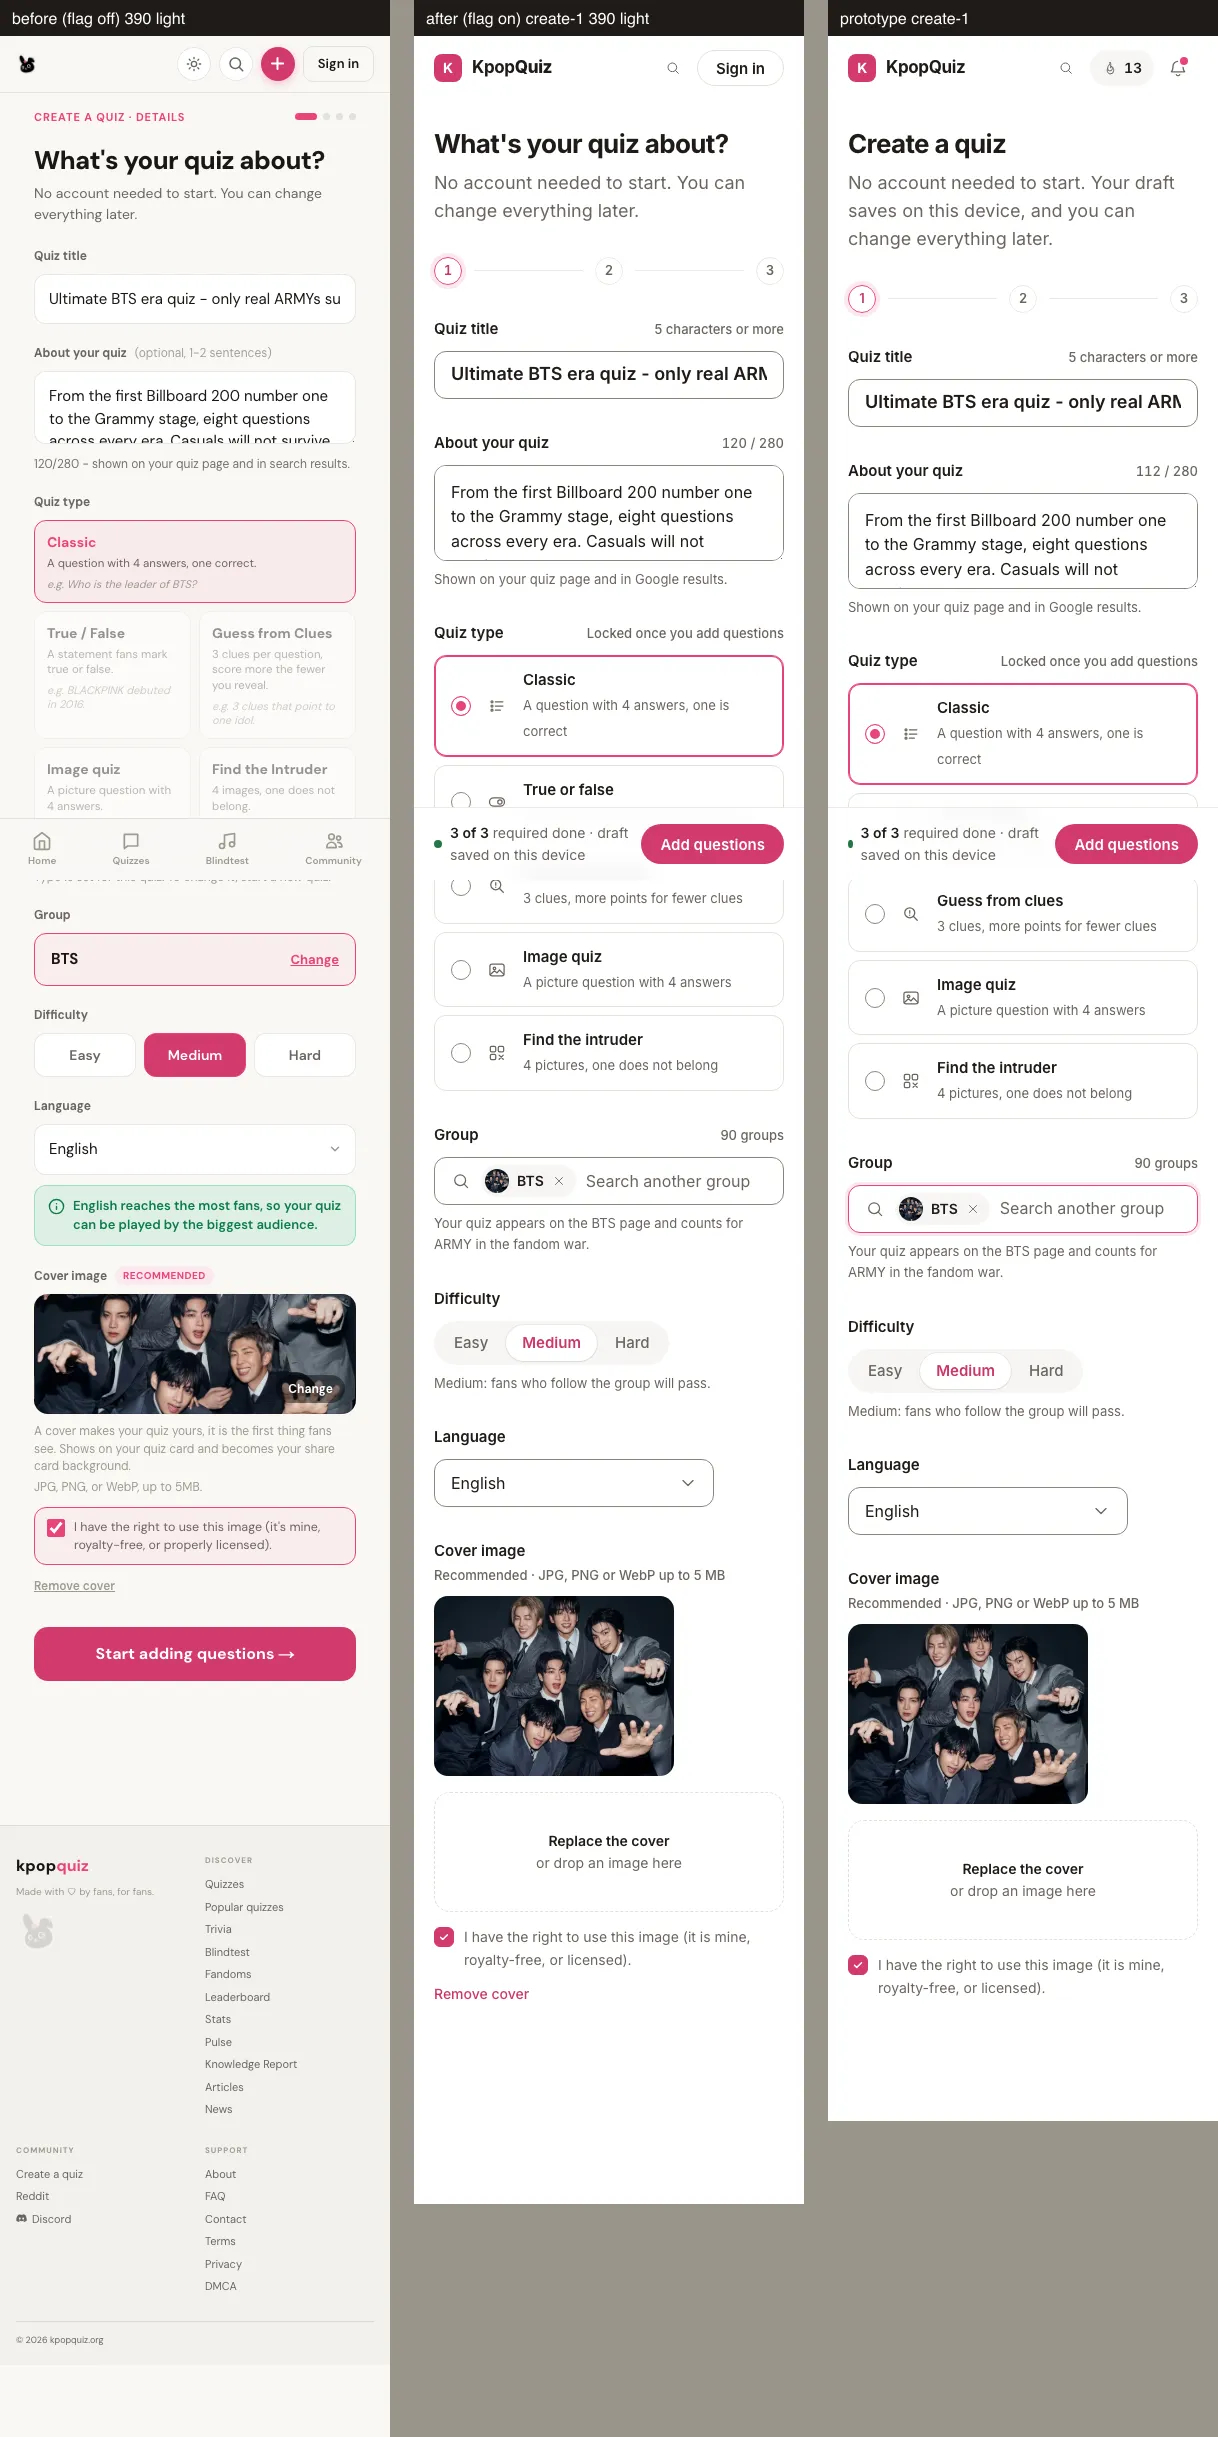
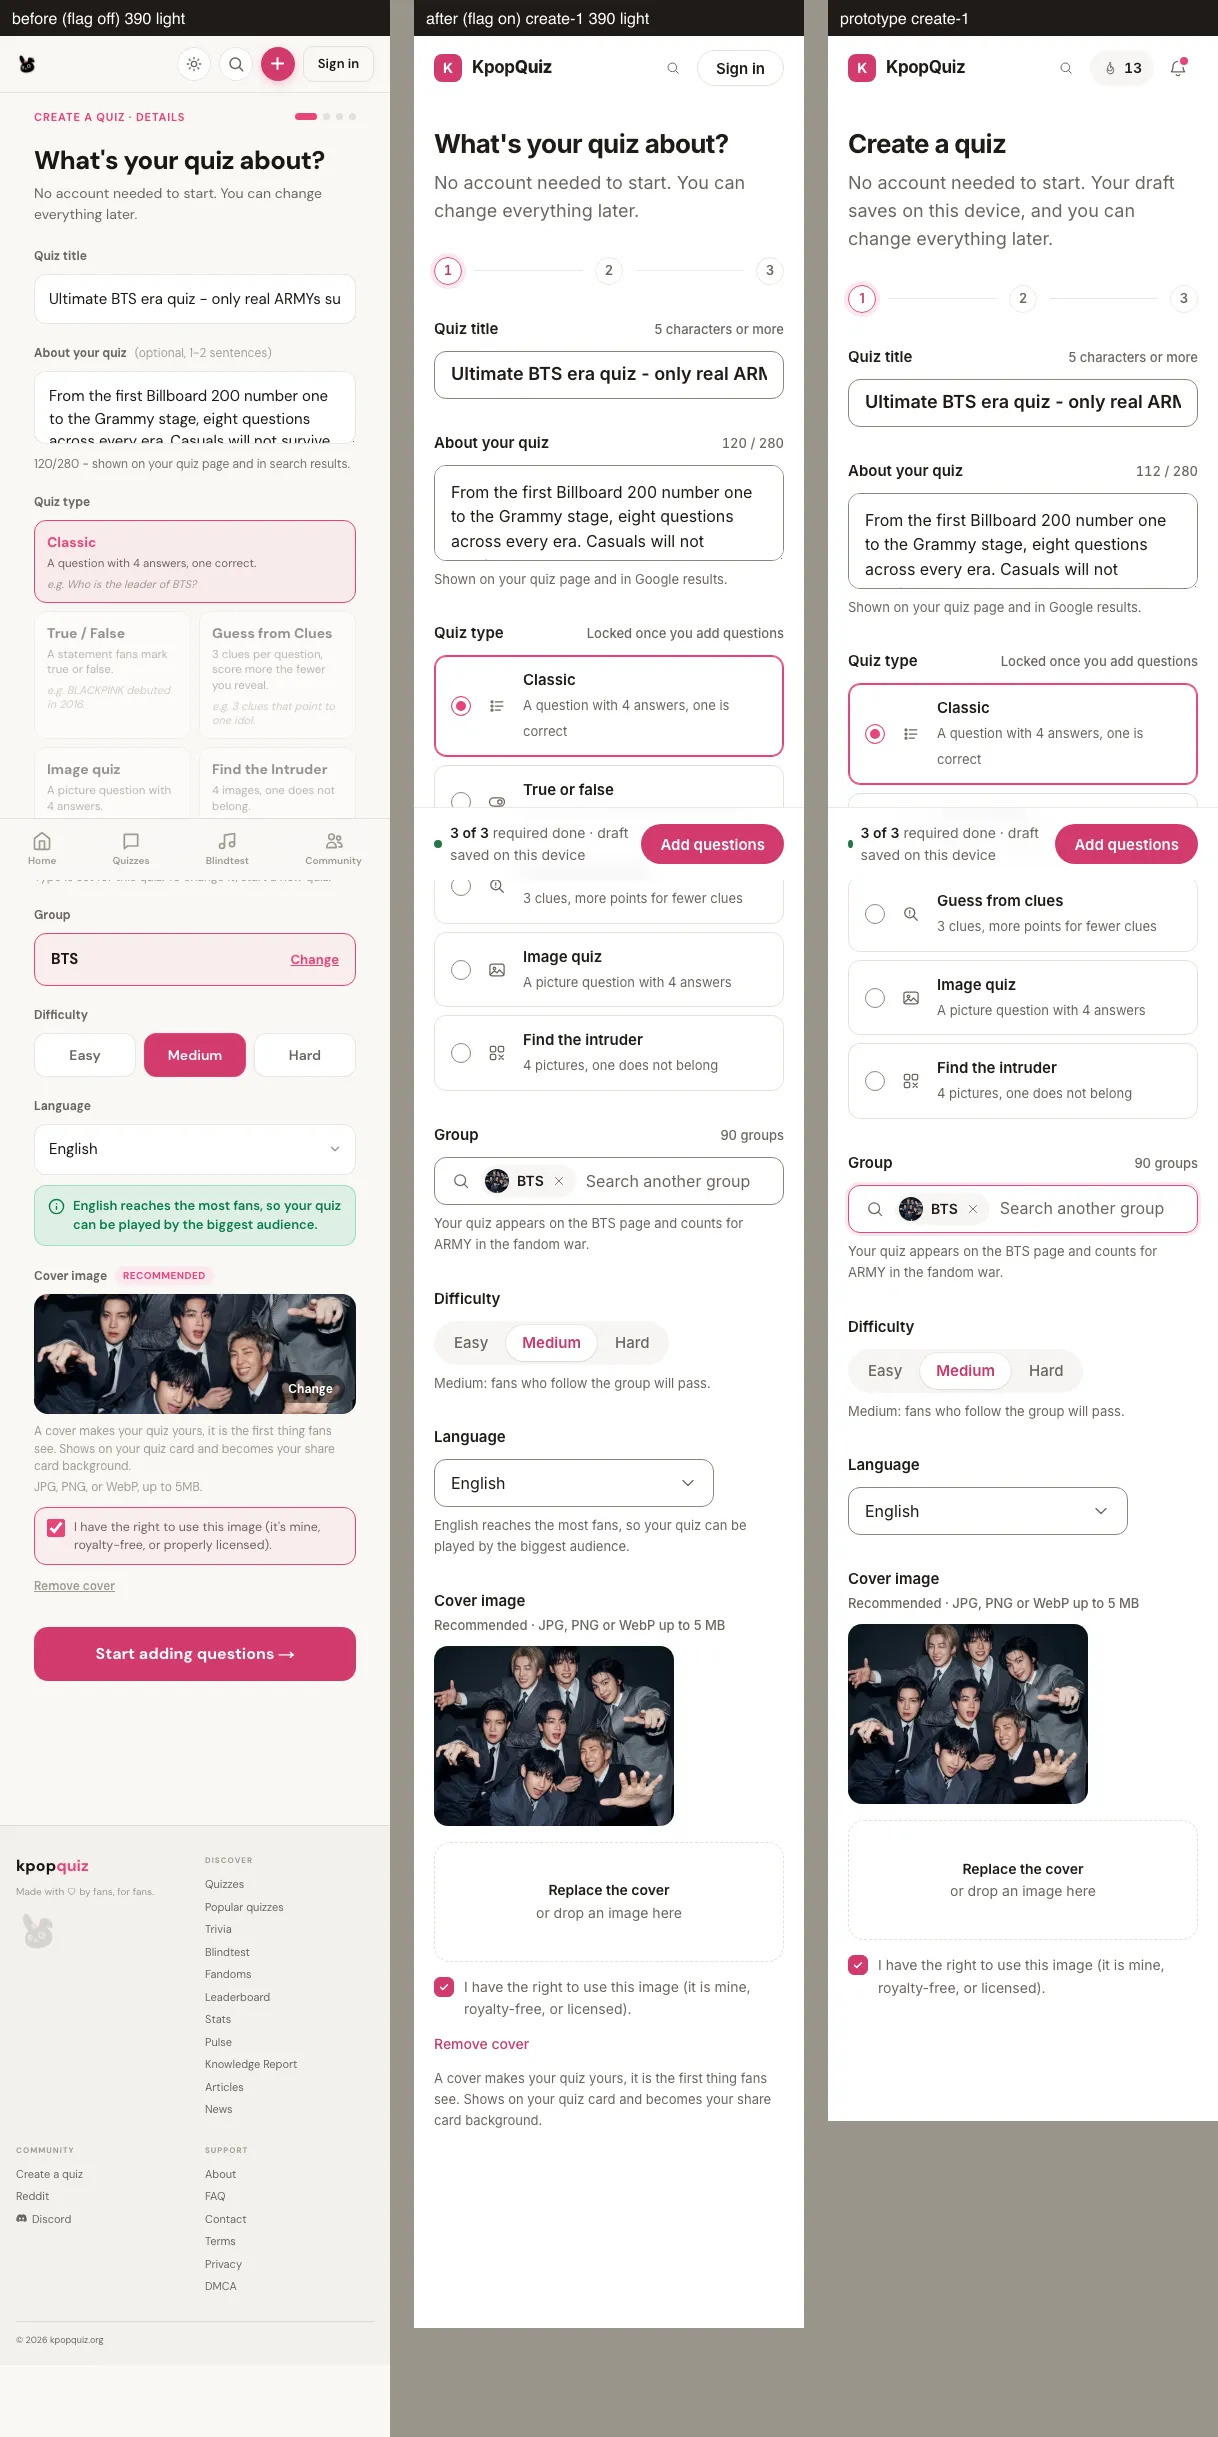
ux11(p5): the live language note is served too; prose check in the SEO diff; report fix loop 1
The live funnel's English line under Language is kept (the other language
line already was): the prototype has no line there. seo-diff.mjs now checks
the served prose: every flag-off chunk of 8+ words is served flag on, or is
one of the three lines the prototype replaces (its replacement served).
p5.spec 45 passed, whole-app tsc 0. Shots refreshed for create-1 and create-3.

Changed region(s): [[0.3432, 0.6237, 0.624, 0.8732], [0.312, 0.9044, 0.6864, 0.9668]]

diff --git a/apps/quiz/e2e/ux-v1/p5.spec.ts b/apps/quiz/e2e/ux-v1/p5.spec.ts
@@ -44,6 +44,7 @@ const LIVE = {
   h1: "What's your quiz about?",
   intro: 'No account needed to start. You can change everything later.',
   coverLine: 'A cover makes your quiz yours, it is the first thing fans see. Shows on your quiz card and becomes your share card background.',
+  langLine: 'English reaches the most fans, so your quiz can be played by the biggest audience.',
 };
 
 const FAKE_QUIZ = { id: 'p5-e2e-id', slug: 'p5-e2e-slug', creator_stats: { quizzes_created: 2, plays_received: 5 } };
@@ -160,11 +161,14 @@ const L: P5Landmark[] = [
   { proto: '#cp-1 .seg button:not(.on)', impl: '.p5-pane .ux-seg [aria-pressed="false"]', state: 'create-1' },
   // a native <select> keeps room for the chevron (padding-right 44); same box, same text position
   { proto: '#cp-1 .field:nth-child(6) .inp', impl: '#p5-lang', state: 'create-1', skip: ['padding-right'] },
-  { proto: '.covgrid', impl: '.p5-covgrid', state: 'create-1', boxSkip: ['h'] },
-  { proto: '.covgrid .qcov', impl: '.p5-cov', state: 'create-1', skip: PHOTO },
-  { proto: '.covgrid .drop', impl: '.p5-drop', state: 'create-1' },
-  { proto: '.covgrid .check', impl: '.p5-rights .ux-check', state: 'create-1' },
-  { proto: '.covgrid .check i', impl: '.p5-rights .ux-check i', state: 'create-1' },
+  // The live funnel's English note under Language is kept (live copy, C3-005 rule; the prototype
+  // has no line there): the cover field sits one help line lower, so its y is checked from the
+  // cover grid (COVER_FROM) instead of the stepper; x, sizes and styles as everywhere.
+  { proto: '.covgrid', impl: '.p5-covgrid', state: 'create-1', boxSkip: ['h', 'y'] },
+  { proto: '.covgrid .qcov', impl: '.p5-cov', state: 'create-1', skip: PHOTO, boxSkip: ['y'] },
+  { proto: '.covgrid .drop', impl: '.p5-drop', state: 'create-1', boxSkip: ['y'] },
+  { proto: '.covgrid .check', impl: '.p5-rights .ux-check', state: 'create-1', boxSkip: ['y'] },
+  { proto: '.covgrid .check i', impl: '.p5-rights .ux-check i', state: 'create-1', boxSkip: ['y'] },
   // step 2 (row 2 open)
   { proto: '#cp-2 .field', impl: '.p5-qfield', state: 'create-2', boxSkip: ['h'] },
   { proto: '#cp-2 .flabel', impl: '#p5-ql-l', state: 'create-2' },
@@ -304,6 +308,17 @@ async function checkLandmarks(page: Page, state: State, theme: Theme): Promise<s
       if (Math.abs(py - iy) > 2) problems.push(`${l.proto} y${fixed ? '' : ' (from the stepper)'}: expected ${py.toFixed(2)}, got ${iy.toFixed(2)}`);
     }
   }
+  // the cover field's inner layout, from its grid (see the cover entries above)
+  if (state === 'create-1') {
+    const pg = PROTO[key]?.['.covgrid']?.box as number[] | undefined;
+    const ig = got['.p5-covgrid'];
+    for (const [proto, impl] of [['.covgrid .qcov', '.p5-cov'], ['.covgrid .drop', '.p5-drop'], ['.covgrid .check', '.p5-rights .ux-check']] as const) {
+      const pb = PROTO[key]?.[proto]?.box as number[] | undefined;
+      const ib = got[impl];
+      if (!pg || !ig || !pb || !ib) { problems.push(`missing ${proto} for the cover grid check`); continue; }
+      if (Math.abs((pb[1]! - pg[1]!) - (ib[1] - ig[1])) > 2) problems.push(`${proto} y (from the cover grid): expected ${(pb[1]! - pg[1]!).toFixed(2)}, got ${(ib[1] - ig[1]).toFixed(2)}`);
+    }
+  }
   return problems;
 }
 
@@ -326,6 +341,7 @@ test.describe('P5 SEO lock and shell', () => {
     for (const id of ['p5-title', 'p5-about', 'p5-group-q', 'p5-lang']) expect(html).toContain(`id="${id}"`);
     // the live funnel's cover sentence stays in the served text (C3-005)
     expect(html).toContain(LIVE.coverLine);
+    expect(html).toContain(LIVE.langLine);
     // create shell mode: nav kept; tab bar and footer hidden by CSS (still in the HTML)
     await preparePage(page, 'light');
     await guardWrites(page);
@@ -438,6 +454,7 @@ test.describe('P5 step 1 (guest)', () => {
     await expect(page.locator('#p5-lang')).toHaveValue('ko');
     await expect(page.getByText('Quizzes written in English reach a much bigger audience.', { exact: false })).toBeVisible();
     await page.locator('#p5-lang').selectOption('en');
+    await expect(page.locator('#p5-lang-h')).toHaveText('English reaches the most fans, so your quiz can be played by the biggest audience.');
     // about: counter
     await page.locator('#p5-about').fill('A short note.');
     await expect(page.locator('label[for="p5-about"] small')).toHaveText('13 / 280');

diff --git a/apps/quiz/src/components/create/ux-v1/details.tsx b/apps/quiz/src/components/create/ux-v1/details.tsx
@@ -114,14 +114,19 @@ export function P5Details({ f, groups, shown }: { f: CreateFunnel; groups: Funne
       <div className="ux-field">
         <label htmlFor="p5-lang">Language</label>
         <div className="p5-select">
-          <select id="p5-lang" className="ux-inp" value={d.language} onChange={(e) => f.setLanguage(e.target.value)}>
+          <select id="p5-lang" className="ux-inp" value={d.language} onChange={(e) => f.setLanguage(e.target.value)} aria-describedby="p5-lang-h">
             {LANGUAGES.map((l) => (
               <option key={l.code} value={l.code}>{l.label === l.native ? l.label : `${l.label} (${l.native})`}</option>
             ))}
           </select>
           <Icon name="chev" className="p5-select-i" />
         </div>
-        {d.language !== 'en' ? <p className="ux-help">Quizzes written in English reach a much bigger audience. Choose English to be seen by the most fans.</p> : null}
+        {/* the live funnel's language note, both cases (kept: the prototype has no line here) */}
+        <p className="ux-help" id="p5-lang-h">
+          {d.language === 'en'
+            ? 'English reaches the most fans, so your quiz can be played by the biggest audience.'
+            : 'Quizzes written in English reach a much bigger audience. Choose English to be seen by the most fans.'}
+        </p>
       </div>
 
       <div className="ux-field">

diff --git a/docs/design/ux-dashboard-v1/v11/reports/P5.md b/docs/design/ux-dashboard-v1/v11/reports/P5.md
@@ -2,7 +2,12 @@
 
 ## Progress
 
-- Done: flag-on `/create` in the prototype's `#create` view behind `NEXT_PUBLIC_UX_V1` (flag off: the EXISTS
+- Fix loop 1 (branch `ux11/p5-fix1` from feat/ux-v1-v11 6336657; section 10): C3-005 fixed (the live cover
+  sentence is served again, and so is the live English note under Language, the other live text line the prototype
+  does not replace); the draft card is A0's `UxQuizCard` in preview mode (P5's copy of the card markup deleted);
+  the spec no longer skips the sheet title line-height (A0 ships 18 / 1.6). p5.spec 45 passed, 0 retries; whole-app
+  `tsc --noEmit -p .` 0; SEO, link-set and prose diff of `/create` clean.
+- Done (PR #52, merged): flag-on `/create` in the prototype's `#create` view behind `NEXT_PUBLIC_UX_V1` (flag off: the EXISTS
   `CreateFunnel`, unchanged); the EXISTS funnel's state, gates and save calls lifted verbatim into `lib/ux-v1/p5`
   and proven equal to `create-funnel.tsx` and `question-list-editor.tsx` by transpiling them in the unit tests
   (59 tests); `e2e/ux-v1/p5.spec.ts` green on the merged integration code (A0's request queue included): 44 tests,
@@ -10,8 +15,8 @@
   2px) + the `styles.json` `.qcard`; axe 0 serious / critical; the same 45 green on the flag-on production build;
   SEO and link-set diff clean; flag-off `/create` identical to the base; before / after / prototype shots; no
   pending migration. PR into feat/ux-v1-v11: https://github.com/P-Mingi/KpopQuizzV2/pull/52
-- Next: ORCH review and merge. Requests: ORCH (one copy of the funnel rules), A0 (sheet title line-height, a preview
-  mode for `UxQuizCard`), P8 (open the composer from `/community?compose=challenge&quiz=<slug>`).
+- Next: ORCH review and merge of the fix PR. Open requests: ORCH (one copy of the funnel rules), P8 (open the
+  composer from `/community?compose=challenge&quiz=<slug>`). A0 requests 2 and 3 are done (section 10).
 - Blockers: none in code. Every saving flow is proven by the payloads the specs record, never sent (RUN-STATE owner
   decision 1).
 
@@ -197,8 +202,8 @@ test user). The one flake met on the way was the spec measuring the group field 
    "Published" without an XP amount (the API returns none); "90 groups" (the hidden quarantine row is not offered).
 5. "Add an image" only where the model has a picture (image quizzes; intruder has 4); the other types have no
    per-question picture, so the control would be dead.
-6. Kept from the live funnel: the soft duplicate-title hint, the English-reach note for other languages, "Remove
-   cover", the creator progress line, "Create another quiz", "Open your quiz" in a new tab, the username claim.
+6. Kept from the live funnel: the soft duplicate-title hint, the language note under Language (both lines, fix
+   loop 1), the cover sentence under the cover field (fix loop 1), "Remove cover", the creator progress line, "Create another quiz", "Open your quiz" in a new tab, the username claim.
 7. New copy: the Easy and Hard difficulty lines (the prototype has only the Medium one); "The group list did not
    load. Reload the page to pick a group." when the groups read fails.
 8. The question and fun fact boxes grow with their text (a self-sizing textarea inside the prototype's box).
@@ -224,8 +229,8 @@ None.
 
 1. ORCH: make `create-funnel.tsx` and `question-list-editor.tsx` import `lib/ux-v1/p5` (one copy); the legacy
    autosave race.
-2. A0: sheet title 18 / 1.6 like the prototype (A0 has 1.4; 3.6px).
-3. A0: a preview mode for `UxQuizCard` (no link, data-URL cover); P5 then drops `DraftCard`.
+2. A0: sheet title 18 / 1.6 like the prototype. DONE by A0 (5065b55); the spec checks it without a skip.
+3. A0: a preview mode for `UxQuizCard`. DONE by A0 (53f1230); P5 uses it (fix loop 1).
 4. A0 (info): the sign-in callback uses `NEXT_PUBLIC_SITE_URL` (as `/login`); on a preview that points at
    production the round trip leaves the preview's draft behind.
 5. P8: open the composer in challenge mode from `/community?compose=challenge&quiz=<slug>`.
@@ -240,3 +245,26 @@ None.
    other types.
 4. The legacy autosave race (request 1), flag-off code.
 5. The new Easy / Hard difficulty lines.
+
+## 10. Fix loop 1 (2026-09-26; branch ux11/p5-fix1 from feat/ux-v1-v11 6336657)
+
+| Item | Fix | Proof |
+|---|---|---|
+| C3-005 (low): the live cover sentence "A cover makes your quiz yours, it is the first thing fans see. Shows on your quiz card and becomes your share card background." was not in the flag-on server HTML | Served again as the cover field's help line (under the cover grid, `aria-describedby` of the file input). The prototype has no equivalent line there (its label note "Recommended, JPG, PNG or WebP up to 5 MB" replaces the live "JPG, PNG, or WebP, up to 5MB." only) | p5.spec "SEO lock": the sentence is in the server HTML; `seo-diff.txt` prose check |
+| Same rule, found by P5's new prose check: the live note under Language, "English reaches the most fans, so your quiz can be played by the biggest audience." (the other language line was already kept) | Both live lines served under the language select (`aria-describedby`) | p5.spec (server HTML + both lines after a switch); `seo-diff.txt` |
+| Live lines the prototype replaces with its own equivalent line (kept as the prototype's) | "- shown on your quiz page and in search results." -> "Shown on your quiz page and in Google results."; "3 clues per question, score more the fewer you reveal." -> "3 clues, more points for fewer clues"; "e.g. 3 clues that point to one idol." -> "Clue 1: born in 1997" | `seo-diff.txt`: listed as REPLACED, the replacement is served |
+| A0 round 3: `UxQuizCard` preview mode | `DraftCard` now renders `<UxQuizCard preview>` (no link, data-URL cover as a plain img, the group photo through next/image otherwise); P5's copy of the card markup and its hover rules are deleted; P5 keeps only `text-wrap: balance` on the title (the prototype's balanced wrap) | p5.spec: create-3 and signin card landmarks + the `styles.json` `.qcard` green, "no link in the card" |
+| A0 round 3: sheet title 18 / 1.6 | the spec's skip is removed | p5.spec signin landmarks green without it |
+
+Layout effect: the language note adds one help line above the cover field, so on create-1 the cover elements sit
+28.8px lower than the prototype's; the spec checks their y from the cover grid (inner layout) instead of the
+stepper; x, sizes and styles as before. Nothing else moves.
+
+Proofs:
+- `seo-diff.mjs` now also compares the served prose (every flag-off text chunk of 8+ words must be served flag on,
+  or be one of the three prototype replacements above, whose replacement must be served). `/create` and
+  `/create?group=bts`: status, title, description, robots, canonical, og, JSON-LD, H1, intro SAME; link set: flag
+  off 22 unique hrefs, all served flag on (38); prose: 6 chunks, 3 served as is, 3 replaced; `/pt/create` 404 both.
+- p5.spec: 45 passed, 0 retries (1440 + 390, light + dark, guest + test user), flag-on dev server :3035.
+- Whole-app `npx tsc --noEmit -p .` in apps/quiz: exit 0. eslint-config-next on the changed files: 0 problems.
+- Shots refreshed for create-1 and create-3 (before / after / prototype, 8 files).
